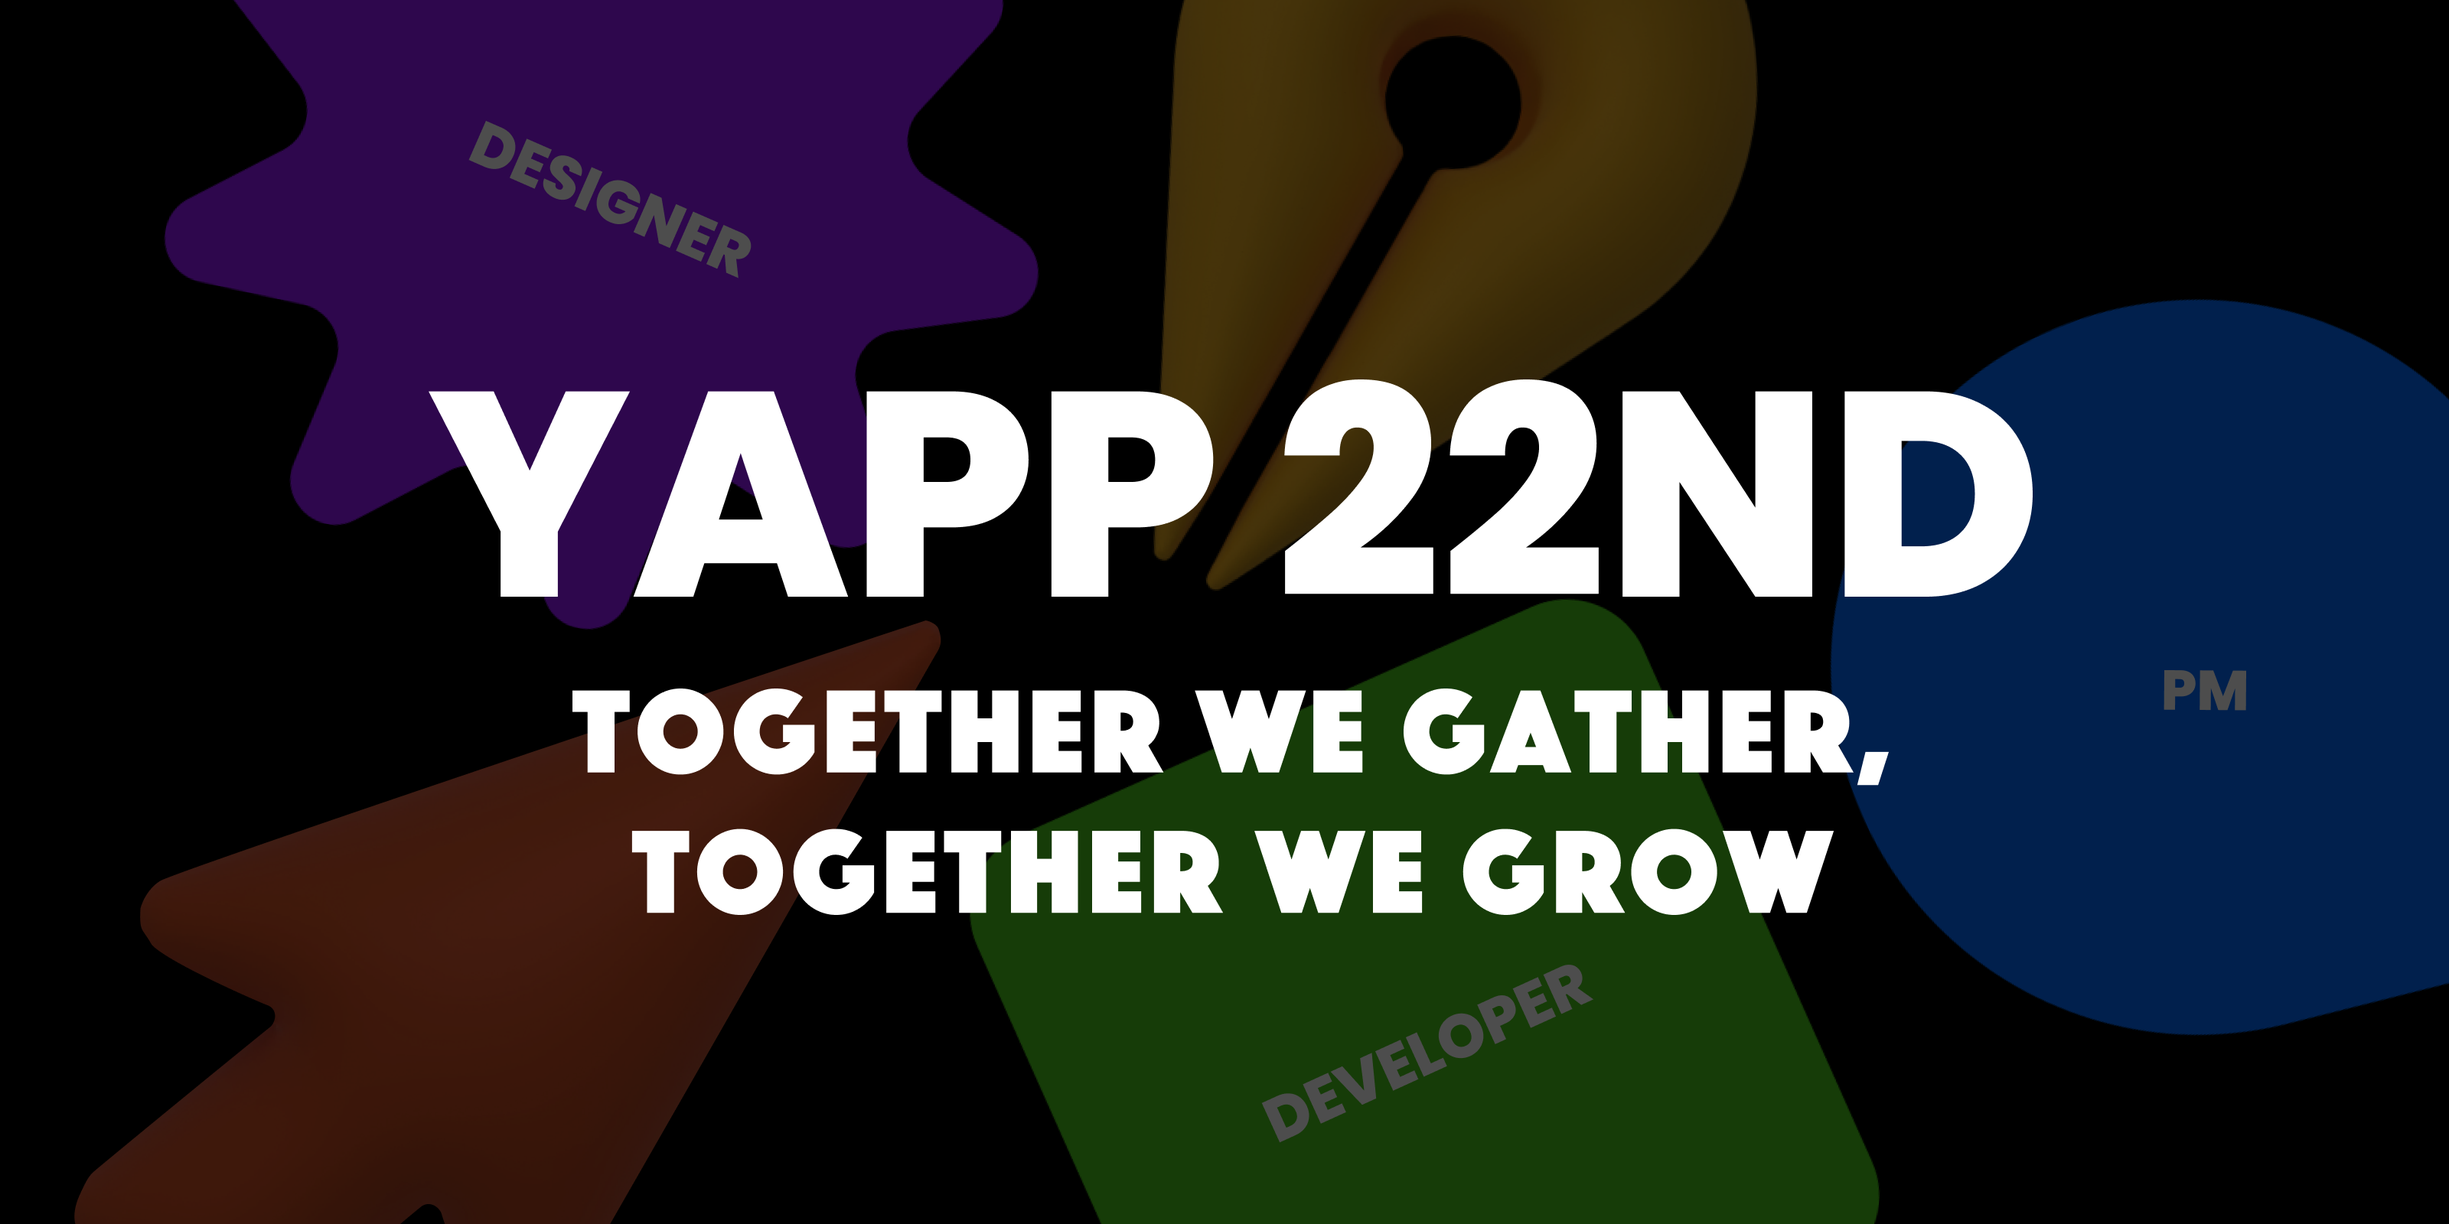
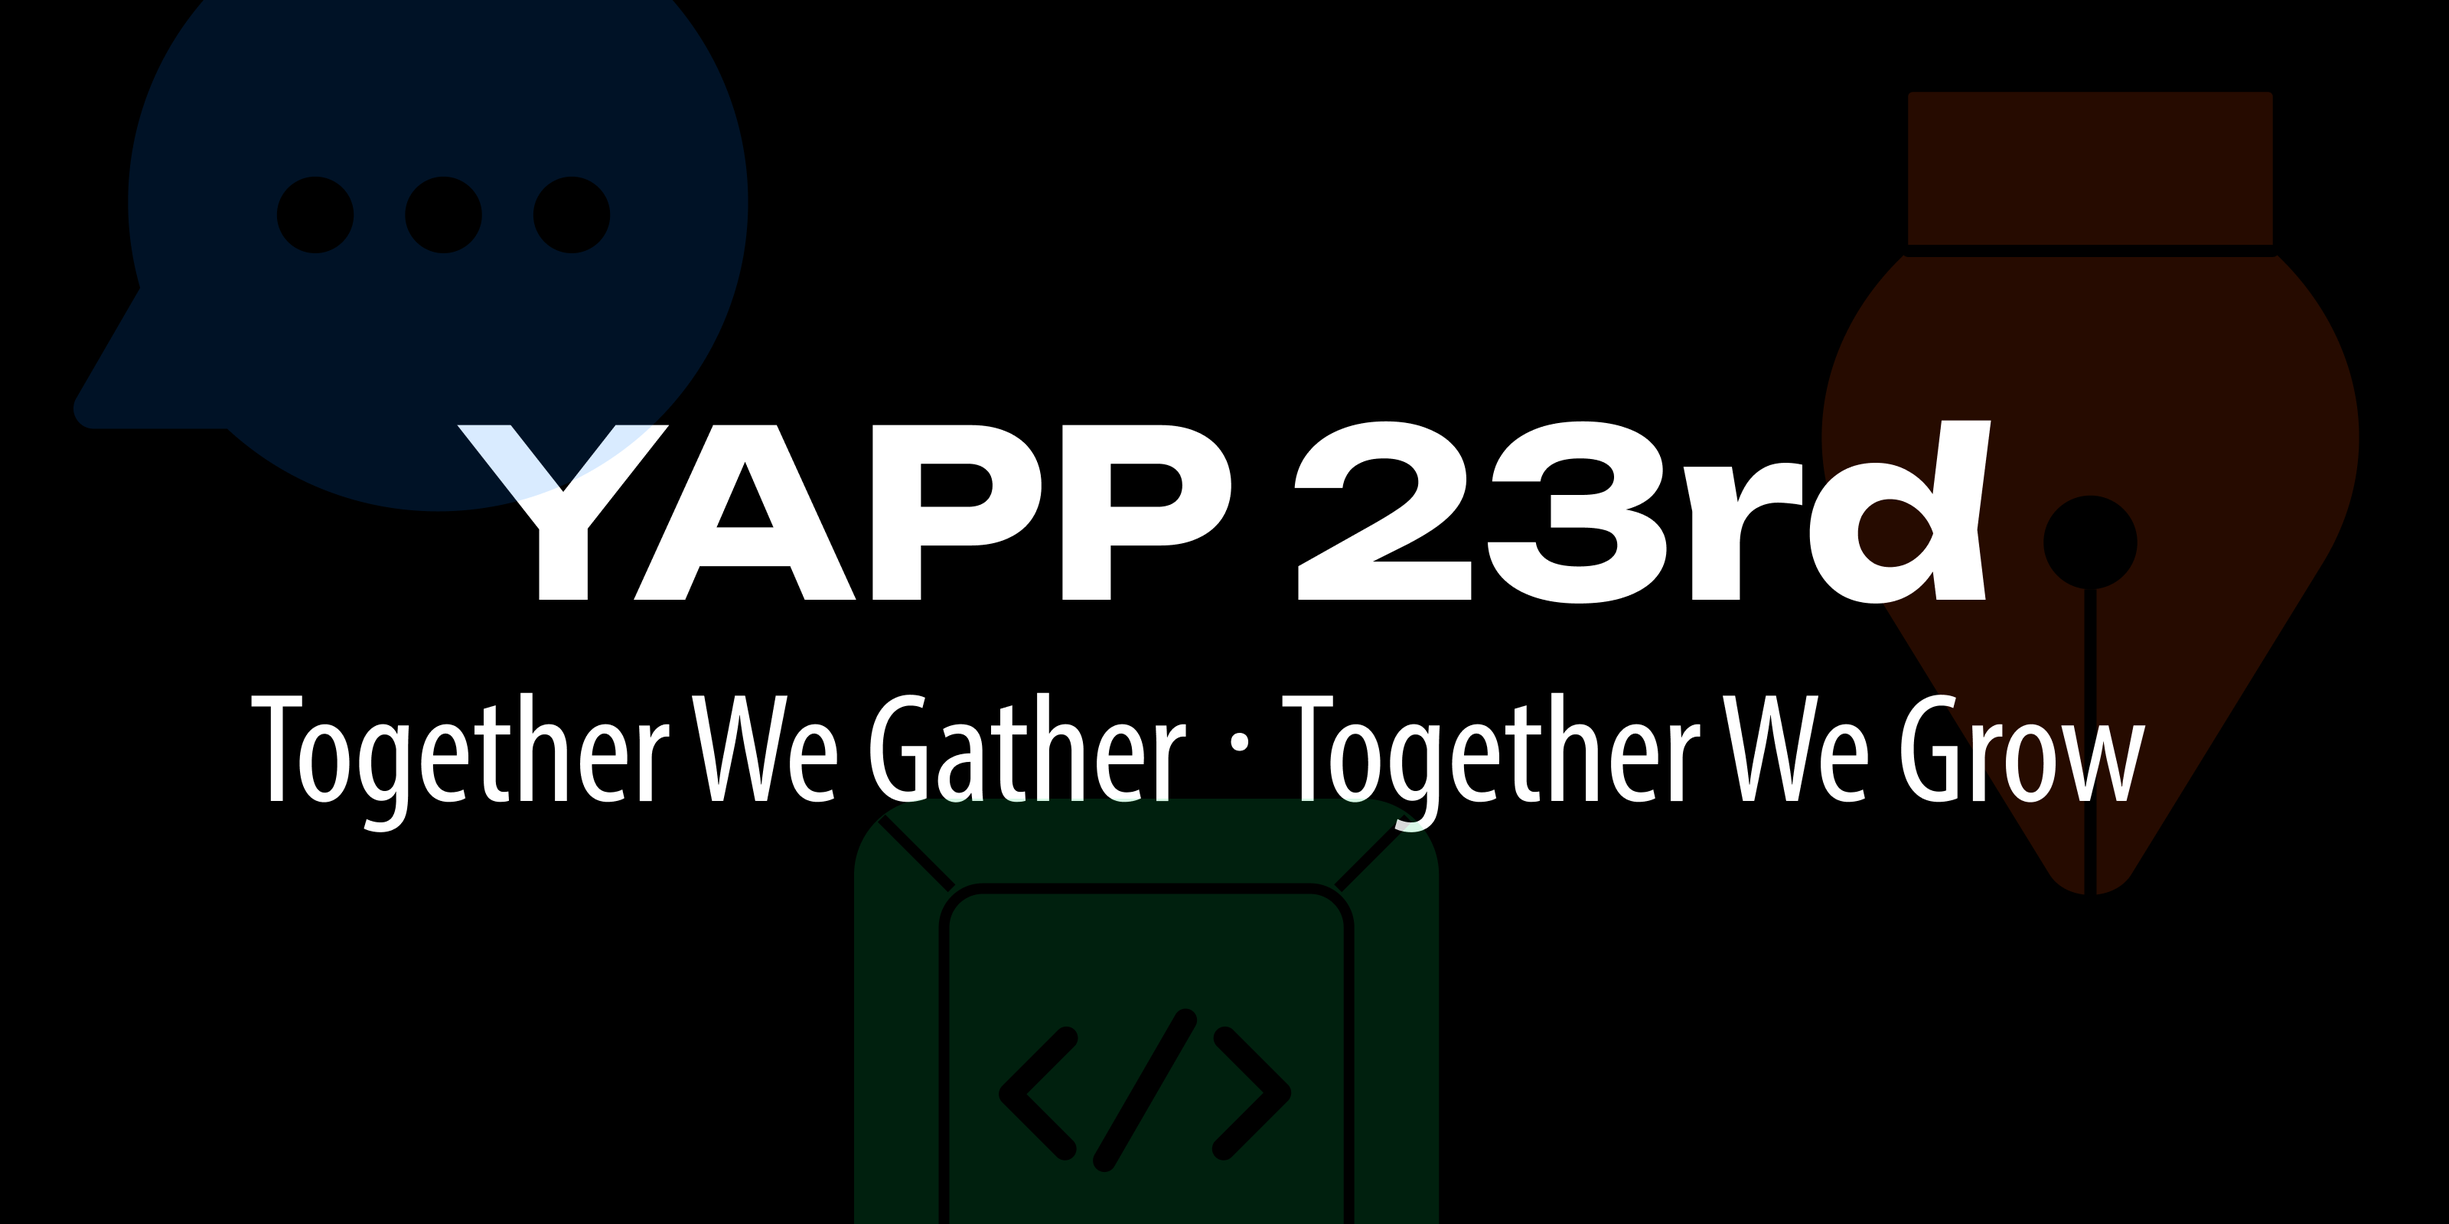
fix: 23기 모집 공고 데이터 수정

diff --git a/database/recruit.ts b/database/recruit.ts
@@ -9,7 +9,7 @@ import { DeveloperFieldName } from 'components/recruit/RecruitField/RecruitDevel
  */
 
 /* 현재 모집중이면 true 아니면 false */
-export const IS_RECRUITING = false;
+export const IS_RECRUITING = true;
 
 /** Banner  */
 export const RECRUIT_BANNER = {
@@ -47,7 +47,8 @@ export const RECRUIT_APPLY_WAY = {
       subTitle: '지원방법',
       description: `1차 서류<br />
                       <div class="smallGrey">지원서 작성 및 포트폴리오 제출</div>
-                    2차 면접 후 최종 합격`,
+                    2차 면접 <br />
+                    <div class="smallGrey">온라인 인터뷰 이후 최종합격</div>`,
     },
   ],
 };
@@ -58,21 +59,21 @@ export const RECRUIT_SCHEDULE = {
   schedules: [
     {
       subTitle: '서류 접수',
-      description: `2023. 03. 31 (금)<br />
-                    ~ 04. 09. (일) 23:00`,
+      description: `2023. 09. 25 (월)<br />
+                    ~ 10. 01. (일) 23:59`,
     },
     {
       subTitle: '서류 결과 발표',
-      description: `2023. 04. 11. (화)`,
+      description: `2023. 10. 05. (목)`,
     },
     {
-      subTitle: '면접',
-      description: `2023. 04. 15. (토)<br />
-                    ~ 04. 16. (일)`,
+      subTitle: '온라인 인터뷰',
+      description: `2023. 10. 07. (토)<br />
+                    ~ 10. 09. (월)`,
     },
     {
       subTitle: '최종 발표',
-      description: `2023. 04. 18. (화)`,
+      description: `2023. 10. 14. (토)`,
     },
   ],
 };
@@ -83,9 +84,8 @@ export const RECRUIT_FAQ = {
   faqs: [
     {
       subTitle: 'YAPP은 어떤 동아리인가요?',
-      description: `YAPP은 기획자, 디자이너, 개발자로 팀을 구성하여 <b>4개월간 하나의 IT 서비스(웹,앱,etc.)를 제작</b>하는 연합 동아리입니다.<br class="br" /> 
-      프로젝트는 기업형 프로세스에 따라 진행하고 런칭하여, 팀원들의 아이디어를 실제 IT 서비스로 구체화
-                    시키는 경험을 할 수 있습니다.`,
+      description: `YAPP은 기획자, 디자이너, 개발자로 팀을 구성하여 <b>4개월간 하나의 IT 서비스(웹,앱,etc.)를 제작</b>하는 기업형 IT연합 커뮤니티입니다.<br class="br" /> 
+      서비스 문제 정의, 출시, 제작, 운영까지 팀원들의 아이디어를 실제 IT 서비스로 구체화하며 성장할 수 있습니다.`,
       isOpen: false,
     },
     {
@@ -93,7 +93,7 @@ export const RECRUIT_FAQ = {
         '대학생이 아닌 고졸/재직자/졸업자 등도 YAPP에서 활동할 수 있을까요?',
       description: `4개월간 꾸준히 활동할 수 있고 배우고자 하는 <b>열의가 충분하다면, 누구든 지원이 가능</b>합니다.<br class="br" />
                     현재도 고졸/재직자/졸업자 중 활발히 활동하시는 분들이 계십니다.<br class="br" />
-                    하지만 매주 진행하는 <b>정기 세션</b>과 기수당 3회 열리는 <b>해커톤 Dev. Camp</b>에 필수적으로 참여해야 하며,<br class="br" />
+                    하지만 매주 진행하는 <b>정기 세션</b>과 기수당 2-3회 열리는 <b>해커톤 Dev. Camp</b>에 필수적으로 참여해야 하며,<br class="br" />
                     특히 방학 중에는 원활한 프로젝트 진행을 위해 추가적인 팀 활동에 모여야 한다는 점을 숙지해주세요!`,
       isOpen: false,
     },
@@ -108,14 +108,15 @@ export const RECRUIT_FAQ = {
       subTitle: '정기 모임(세션)은 언제, 어디서 하나요?',
       description: `<b>매주 토요일 오후 2시-5시</b>, 세션은 서로 간의 지식 공유&친목 도모를 위해 진행되며 가벼운 뒤풀이도 있을 수 있습니다.<br class="br" />
                     주로 <b>온라인/오프라인 병행</b>으로 진행되고 있으며 각 기수별 상황에 따라 달라질 수 있습니다.<br class="br" />
-                    오프라인으로 진행될 경우 섭외 장소에 따라 장소가 변경될 수 있으며 일정, 장소 등 자세한 정보는 사전 공지해드릴 예정입니다.`,
+                    오프라인으로 대부분 수도권에서 세션이 진행되며, 장소 섭외 상황에 따라 변경될 수 있습니다.<br class="br" />
+                    일정, 장소 등 자세한 정보는 내부 채널을 통해 사전 공지해드릴 예정입니다.`,
       isOpen: false,
     },
     {
       subTitle: '동아리 활동은 어떤 게 있나요?',
-      description: `1. 아이디어를 서비스로 구체화시킬 수 있는 해커톤 Dev. Camp 3회<br />
-                    2. 정기 전체 세션: 프로젝트 팀 회의, 직군 간 커뮤니케이션, 진행현황 발표 등을 진행합니다.<br />
-                    3. 직군 세션: 직군 특성을 반영한 발표, 초청 취업 강연, 현직자 선배의 조언을 들을 수 있는 Networking Day 등<br />
+      description: `1. 아이디어를 서비스로 구체화시킬 수 있는 해커톤 Dev. Camp 2-3회<br />
+                    2. 정기 전체 세션: 프로젝트 팀 회의, 직군 간 커뮤니케이션, 진행 현황 발표 등을 진행합니다.<br />
+                    3. 직군 세션: 직군별 스터디, 직군 특성을 반영한 발표, 초청 취업 강연, 현직자 선배의 조언을 들을 수 있는 Networking Day 등<br />
                     4. 성과공유회: 실제 현업에서 활동 중인 선배들에게 프로젝트를 발표하고, 피드백을 받을 수 있는 시간<br />
                     5. 그 외 다양한 네트워킹 활동`,
       isOpen: false,
@@ -135,6 +136,7 @@ export const RECRUIT_DEVELOPER_FIELD_NAMES: DeveloperFieldName[] = [
   'Android',
   'Front-End',
   'Back-End',
+  'Cross-Flatform',
 ];
 
 /* 기획자 */
@@ -146,7 +148,8 @@ export const RECRUIT_EXPLAIN_PROJECT_MANAGER = {
   content2: `1. 새로운 서비스에 대한 아이디어가 있으신 분<br />
   2. 서비스 아이디어를 시각적으로 구현하여 전달할 수 있는 분<br />
   3. 프로젝트 일정과 진행 상황을 주체적으로 관리할 수 있으신 분<br />
-  4. 타 직군과 원활한 커뮤니케이션을 할 수 있는 분`,
+  4. 타 직군과 원활한 커뮤니케이션을 할 수 있는 분<br />
+  5. 나만의 서비스를 만들어서 운영까지 진행해 보고 싶으신 분`,
   content3: `1. 디자이너, 개발 직군과의 프로젝트 경험<br />
   2. 프리젠테이션 발표 경험<br />
   3. UX 설계(기획~와이어프레임) 경험`,
@@ -159,7 +162,8 @@ export const RECRUIT_EXPLAIN_DESIGNER = {
   UX/UI/GUI 디자인을 담당합니다.`,
   content2: `1. UX/UI 디자인에 관심이 있고, UX/UI 디자인을 경험해보신 분<br />
   2. 서비스 아이디어를 시각적으로 표현하실 수 있는 분<br />
-  3. 열린 자세로 다른 직군과 소통하실 수 있는 분<br />`,
+  3. 열린 자세로 다른 직군과 소통하실 수 있는 분<br />
+  4. 나만의 서비스를 만들어서 운영까지 진행해 보고 싶으신 분`,
   content3: `1. 기획자, 개발 직군과의 프로젝트 경험<br />
   2. 프리젠테이션 발표 경험<br />`,
 };
@@ -171,8 +175,9 @@ Back-End, 기획, 디자인분들과 함께 프로젝트를 진행하며,<br />
 원할 경우 팀 내에서 세미나를 열 수도 있으며 스터디를 진행할 수도 있습니다.`,
   content2: `1. 학교 과제 외 프로젝트 진행 경험이 있는 분<br />
 2. Swift 문법을 알고 있으며 실제 개발에 적용해 보신 분<br />
-3. 아이폰에 **Hello World**를 띄워 보신 분<br />
-4. 성실한 자세로 열심히 배우며 프로젝트에 끝까지 참여할 수 있는 분`,
+3. 아이폰에 <b>Hello World</b>를 띄워 보신 분<br />
+4. 성실한 자세로 열심히 배우며 프로젝트에 끝까지 참여할 수 있는 분<br />
+5. 나만의 서비스를 만들어서 운영까지 진행해 보고 싶으신 분`,
   content3: `1. 디자이너와의 프로젝트 경험<br />
 2. MVC, MVP 등 아키텍쳐 패턴과 iOS Platform Architecture에 이해<br />
 3. GitHub / GitLab 등의 VCS(Version Control System) 경험<br />
@@ -187,7 +192,8 @@ export const RECRUIT_EXPLAIN_ANDROID_DEVELOPER = {
   원할 경우 팀 내에서 세미나를 열 수도 있으며 스터디를 진행할 수도 있습니다.`,
   content2: `1. java, kotlin 등 안드로이드 개발 언어를 사용하신 분<br />
   2. 모르는 부분이 생기면 주저않고 질문이 가능하신 분<br />
-  3. 끈기있게 프로젝트를 진행해주실 분<br />`,
+  3. 끈기있게 프로젝트를 진행해주실 분<br />
+  4. 나만의 서비스를 만들어서 운영까지 진행해 보고 싶으신 분`,
   content3: `1. 디자이너, 백엔드 개발자와의 소통 경험<br />
   2. GitHub를 사용한 협업 프로젝트 경험`,
 };
@@ -199,7 +205,8 @@ export const RECRUIT_EXPLAIN_FRONTEND_DEVELOPER = {
   원할 경우 팀 내에서 세미나를 열 수도 있으며 스터디를 진행할 수도 있습니다.`,
   content2: `1. HTML과 CSS 기본을 이해하고 계신 분<br />
   2. 자바스크립트로 프로젝트를 해보고 싶은 분<br />
-  3. 마지막까지 프로젝트를 완수하실 분<br />`,
+  3. 마지막까지 프로젝트를 완수하실 분<br />
+  4. 나만의 서비스를 만들어서 운영까지 진행해 보고 싶으신 분`,
   content3: `1. react vue angular중 하나 이상 다뤄 본 경험<br />
   2. Git을 이용한 프로젝트 관리 경험<br />
   3. 디자이너, 백엔드 개발자, 기획자와 소통 경험`,
@@ -212,16 +219,33 @@ export const RECRUIT_EXPLAIN_BACKEND_DEVELOPER = {
 원할 경우 팀 내에서 세미나를 열 수도 있으며 스터디를 진행할 수도 있습니다.`,
   content2: `1. 데이터베이스의 기초가 있으신 분<br />
 2. 일반적으로 사용하는 RESTful에 대한 이해가 있으신 분<br />
-3. 마지막까지 프로젝트를 완수하실분`,
+3. 마지막까지 프로젝트를 완수하실분<br />
+4. 나만의 서비스를 만들어서 운영까지 진행해 보고 싶으신 분`,
   content3: `1. 언어 상관 없이 RESTful API를 만들어 본 경험<br />
 2. 기획자와의 소통 경험<br />
 3. Git을 이용한 프로젝트 관리 경험`,
+};
+/*Cross Flatform */
+
+export const RECRUIT_EXPLAIN_CROSSFLATFORM_DEVELOPER = {
+  content1: `팀 내에서 Cross-Platform(React-Native, Flutter) 클라이언트 개발을 담당합니다.<br />
+  Back-End, 기획, 디자인분들과 함께 프로젝트를 진행하며,<br />
+  원할 경우 팀 내에서 세미나를 열 수도 있으며 스터디를 진행할 수도 있습니다.<br />
+  <br />
+  <b>해당 직군은 YAPP 내에서 프로젝트성으로 진행하는 직군으로<br />
+  지원 인원에 따라 직군 모집이 취소될 수 있습니다.</b>`,
+  content2: `1. React-Native나 Flutter를 이용한 개발 경력이 있으신 분<br />
+  2. React-Native나 Flutter로 하나의 서비스를 완성해본 경험이 있으신 분<br />
+  3. 나만의 서비스를 만들어서 운영까지 진행해 보고 싶으신 분<br />`,
+  content3: `1. 디자이너와의 프로젝트 경험<br />
+  2. iOS 또는 Android 앱 개발 및 운영 경험<br />
+  3. GitHub를 사용한 협업 프로젝트 경험<br />`,
 };
 
 /* 문의 사항 */
 export const RECRUIT_ENQUIRY = {
   title: '더 궁금하신 내용이 있거나<br /> 문의 사항이 있으신가요?',
-  description:
-    '동아리 관련, 프로젝트, 후원 등<br class="mobile" /> 언제든지 문의해 주세요.',
+  description: `동아리 관련, 프로젝트, 후원 등<br class="mobile" /> 언제든지 문의해 주세요.<br/>
+  <span class="ps">문의는 메일 혹은 카카오톡 채널로 남겨주세요. (페이스북 메시지, 인스타그램 DM은 받지 않습니다)</span>`,
   buttonName: '문의 하기',
 };

diff --git a/constants/yapp.ts b/constants/yapp.ts
@@ -1,6 +1,6 @@
 const Yapp = {
   YAPP_NAME: 'YAPP',
-  YAPP_GENERATION: 22, // 기수
+  YAPP_GENERATION: 23, // 기수
   YAPP_OFFICIAL_EMAIL: 'support@yapp.co.kr',
   YAPP_OFFICIAL_KAKAO: '@YAPP',
   YAPP_OFFICIAL_FACEBOOK: '@YAPP',
@@ -11,12 +11,14 @@ const Yapp = {
   YAPP_GITHUB: 'https://github.com/YAPP-Github',
   YAPP_RECRUIT: 'https://linktr.ee/yappian',
   YAPP_RECRUIT_PROJECT_MANAGER:
-    'https://yapp22nd.career.greetinghr.com/o/72724',
-  YAPP_RECRUIT_DESIGNER: 'https://yapp22nd.career.greetinghr.com/o/72722',
-  YAPP_RECRUIT_IOS: 'https://yapp22nd.career.greetinghr.com/o/72723',
-  YAPP_RECRUIT_ANDROID: 'https://yapp22nd.career.greetinghr.com/o/72725',
-  YAPP_RECRUIT_FRONT_END: 'https://yapp22nd.career.greetinghr.com/o/72726',
-  YAPP_RECRUIT_BACK_END: 'https://yapp22nd.career.greetinghr.com/o/72727',
+    'https://yapp.ninehire.site/job_posting/r1tK8QQZ',
+  YAPP_RECRUIT_DESIGNER: 'https://yapp.ninehire.site/job_posting/NJNKVkbK',
+  YAPP_RECRUIT_IOS: 'https://yapp.ninehire.site/job_posting/uJuqIHKb',
+  YAPP_RECRUIT_ANDROID: 'https://yapp.ninehire.site/job_posting/3psY4QwR',
+  YAPP_RECRUIT_FRONT_END: 'https://yapp.ninehire.site/job_posting/mc1CRqVS',
+  YAPP_RECRUIT_BACK_END: 'https://yapp.ninehire.site/job_posting/cWPQAIHH',
+  YAPP_RECRUIE_CROSS_PLATFORM:
+    'https://yapp.ninehire.site/job_posting/pmo9YJQ1',
 } as const;
 
 export default Yapp;

diff --git a/utils/getDeveloperFieldExplain.ts b/utils/getDeveloperFieldExplain.ts
@@ -1,6 +1,7 @@
 import {
   RECRUIT_EXPLAIN_ANDROID_DEVELOPER,
   RECRUIT_EXPLAIN_BACKEND_DEVELOPER,
+  RECRUIT_EXPLAIN_CROSSFLATFORM_DEVELOPER,
   RECRUIT_EXPLAIN_FRONTEND_DEVELOPER,
   RECRUIT_EXPLAIN_IOS_DEVELOPER,
 } from 'database/recruit';
@@ -16,6 +17,8 @@ const getDeveloperFieldExplain = (field: DeveloperFieldName) => {
       return RECRUIT_EXPLAIN_FRONTEND_DEVELOPER;
     case 'Back-End':
       return RECRUIT_EXPLAIN_BACKEND_DEVELOPER;
+    case 'Cross-Flatform':
+      return RECRUIT_EXPLAIN_CROSSFLATFORM_DEVELOPER;
   }
 };
 

diff --git a/components/recruit/RecruitField/RecruitDeveloper.tsx b/components/recruit/RecruitField/RecruitDeveloper.tsx
@@ -5,7 +5,12 @@ import media from 'styles/media';
 import getDeveloperFieldExplain from 'utils/getDeveloperFieldExplain';
 import RecruitFieldExplain from './RecruitFieldExplain';
 
-export type DeveloperFieldName = 'iOS' | 'Android' | 'Front-End' | 'Back-End';
+export type DeveloperFieldName =
+  | 'iOS'
+  | 'Android'
+  | 'Front-End'
+  | 'Back-End'
+  | 'Cross-Flatform';
 
 function RecruitDeveloper(): ReactElement {
   const [developField, setDevelopField] = useState<DeveloperFieldName>(

diff --git a/components/recruit/RecruitField/index.tsx b/components/recruit/RecruitField/index.tsx
@@ -14,7 +14,8 @@ export type FieldNameTypes =
   | 'iOS'
   | 'Android'
   | 'Front-End'
-  | 'Back-End';
+  | 'Back-End'
+  | 'Cross-Flatform';
 
 function RecruitField(): ReactElement {
   const [field, setField] = useState<FieldNameTypes>(RECRUIT_FIELD_NAMES[0]);

diff --git a/components/recruit/RecruitField/RecruitFieldExplain.tsx b/components/recruit/RecruitField/RecruitFieldExplain.tsx
@@ -71,7 +71,7 @@ function RecruitFieldExplain({
         rel="noreferrer"
       >
         <ApplyButton
-          width={185}
+          width={220}
           height={65}
           fontColor="white"
           buttonColor="grey_850"

diff --git a/components/recruit/Enquiry/index.tsx b/components/recruit/Enquiry/index.tsx
@@ -82,6 +82,10 @@ const EnquiryContent = styled.div`
       display: block;
     }
   }
+  .ps {
+    font-size: 14px;
+    font-weight: 200;
+  }
 `;
 
 const ButtonLinked = styled.a``;
